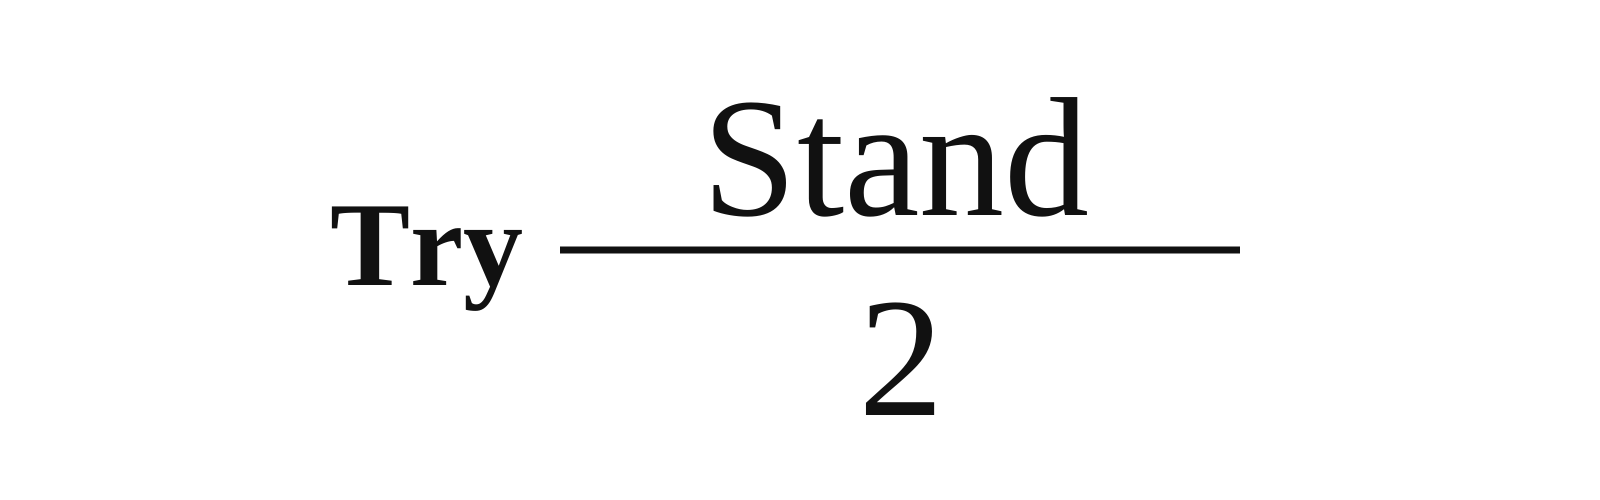
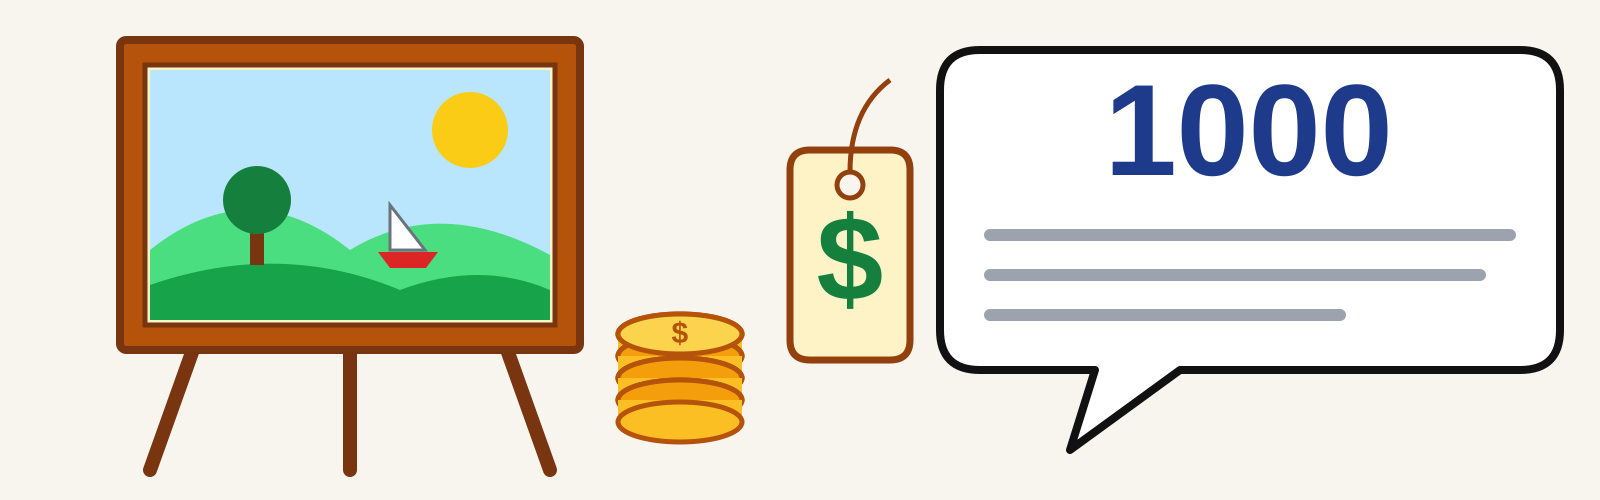
Add files via upload

diff --git a/app.py b/app.py
@@ -25,10 +25,11 @@ PUZZLES = { # Server date is used
     "2026-10-31": {"image": "2026-10-31.png", "answer": "Ice breaker"},
     "2026-11-01": {"image": "2026-11-01.png", "answer": "Forget it"},
     "2026-11-02": {"image": "2026-11-02.png", "answer": "Step father"},
-    "2026-11-03": {"image": "2026-11-03.png", "answer": "Try to understand"},
+    "2026-11-03": {"image": "2026-11-03.png", "answer": "a picture is worth a thousand words"},
     "2026-11-04": {"image": "2026-11-04.png", "answer": "Top secret"},
     "2026-11-05": {"image": "2026-11-05.png", "answer": "Plot Twist"},
     "2026-11-06": {"image": "2026-11-06.png", "answer": "Internet Explorer"},
+    "2026-11-07": {"image": "2026-11-07.png", "answer": "Try to understand"},
 }
 FALLBACK_DATE = "2026-10-29"  # used if today has no puzzle yet
 # -------------------------------------------------------------------------
